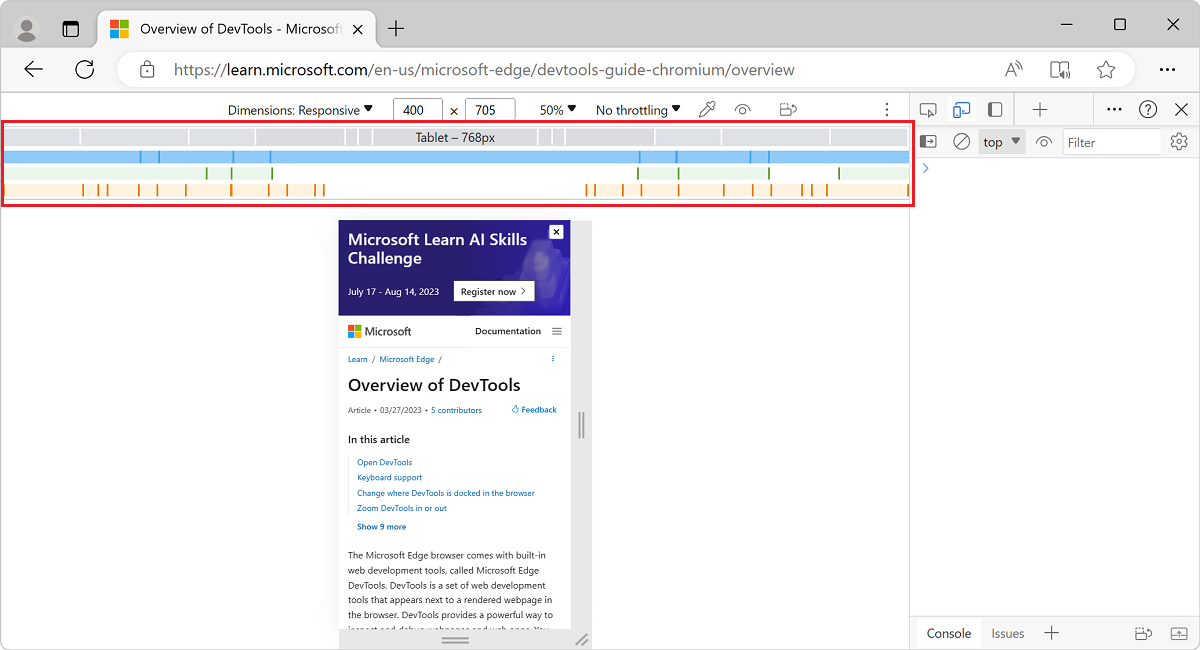
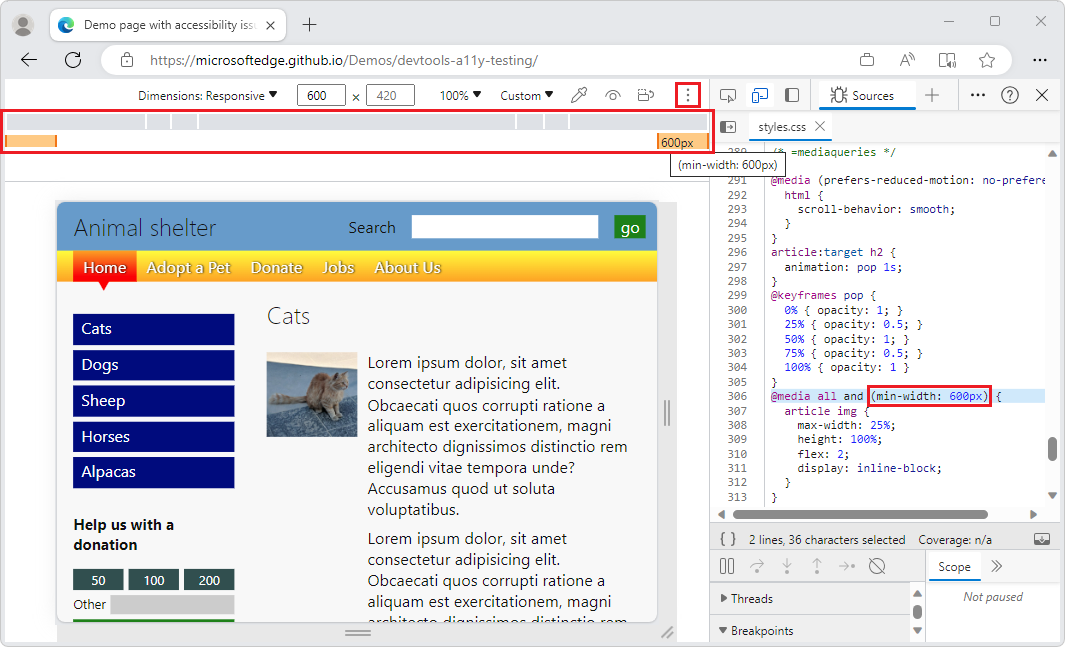
Viewport breakpoints

diff --git a/microsoft-edge/devtools-guide-chromium/device-mode/index.md b/microsoft-edge/devtools-guide-chromium/device-mode/index.md
@@ -52,9 +52,11 @@ Select **Toggle device emulation** (![Toggle Device Toolbar](./index-images/togg
 
 ![The Device Toolbar](./index-images/device-toolbar-highlighted.png)
 
-By default the Device Toolbar opens in Responsive Viewport Mode.
+By default, the Device Toolbar opens in Responsive Viewport Mode.
 
-### Responsive Viewport Mode
+
+<!-- ------------------------------ -->
+#### Responsive Viewport Mode
 
 To quickly test the look and feel of your page across multiple screen sizes, drag the handles to resize the viewport to your required dimensions.  You can enter any numeric values in the width and height boxes.  If you select a size larger than available in the browser window, the viewport will be automatically scaled to accommodate for the larger viewport.
 
@@ -64,17 +66,34 @@ In the following figure, the width is set to `400` and the height is set to `736
 
 If you need more space on your screen, you can always change the position of DevTools as explained in [Change DevTools placement (Undock, Dock to bottom, Dock to left)](/microsoft-edge/devtools-guide-chromium/customize/placement).
 
-#### Show media queries
 
-If you have defined media queries on your page, jump to the viewport dimensions where those media queries take effect by showing media query breakpoints above your viewport.  Select **More options** > **Show media queries**.
+<!-- ---------- -->
+###### Show media queries
 
-![Show media queries](./index-images/device-toolbar-more-options-show-media-queries.png)
+A _media query_ defines a breakpoint, which is a browser viewport width.  A webpage can define a responsive layout for each breakpoint (width) that it defines.
 
-Select a breakpoint to change the width of the viewport so that the media query gets triggered.
+To show media query breakpoints above the viewport:
 
-![Select a breakpoint to change the width of the viewport](./index-images/device-toolbar-click-breakpoint.png)
+1. Click the **More options** (![More Options icon](./index-images/more-options-icon.png)) button, and then select **Show media queries**:
 
-#### Set the device type
+   ![Show media queries](./index-images/device-toolbar-more-options-show-media-queries.png)
+   <!-- https://microsoftedge.github.io/Demos/devtools-a11y-testing/ -->
+
+   If `max-width` or `min-width` breakpoints are defined by the webpage, DevTools displays additional bars above the viewport:
+   * A blue bar with `max-width` breakpoints.
+   * An orange bar with `min-width` breakpoints:
+
+   ![Select a breakpoint to change the width of the viewport](./index-images/device-toolbar-click-breakpoint.png)
+
+1. To change the width of the viewport so that the media query for that breakpoint is used, click a breakpoint rectangle in the breakpoints bar.  The viewport's width changes so that the breakpoint gets triggered, and the webpage layout is updated.
+
+To find the corresponding `@media` declaration in the code for the webpage:
+
+* Right-click between breakpoint vertical bars, and then select **Reveal in source code**.  DevTools opens the **Sources** tool and displays the corresponding `@media` line in the **Editor**.
+
+
+<!-- ---------- -->
+###### Set the device type
 
 Use the **Device Type** list to simulate a mobile device or desktop device.
 
@@ -89,17 +108,19 @@ The following table describes the differences between the available device type 
 | Desktop | Desktop | Normal | `click` |
 | Desktop (touch) | Desktop | Circle | `touch` |
 
-> [!NOTE]
-> If the **Device Type** list isn't displayed, select **More options** > **Add device type**.
+If the **Device Type** list isn't displayed, select **More options** > **Add device type**.
 
-### Mobile Device Viewport Mode
+
+<!-- ------------------------------ -->
+#### Mobile Device Viewport Mode
 
 To simulate the dimensions of a specific mobile device, select the device from the **Device** list.
 
 ![The Device list](./index-images/device-toolbar-device-list.png)
 
 
-#### Rotate the viewport to landscape orientation
+<!-- ---------- -->
+###### Rotate the viewport to landscape orientation
 
 Test your webpage in landscape orientation.
 
@@ -112,7 +133,8 @@ Test your webpage in landscape orientation.
 See also [Set orientation](#set-orientation), below.
 
 
-#### Show device frame
+<!-- ---------- -->
+###### Show device frame
 
 To simulate the dimensions of a specific mobile device, open **More options** and then select **Show device frame** to show the physical device frame around the viewport.
 
@@ -124,7 +146,9 @@ The device frame for the iPhone 6/7/8:
 
 ![The device frame for the iPhone 6](./index-images/device-toolbar-options-device-frame-iphone-6.png)
 
-#### Add a custom mobile device
+
+<!-- ---------- -->
+###### Add a custom mobile device
 
 If the mobile device option that you need isn't included on the default list, you can add a custom device.  To add a custom device:
 
@@ -138,7 +162,9 @@ If the mobile device option that you need isn't included on the default list, yo
 
    ![Adding a custom device](./index-images/device-toolbar-settings-emulated-devices-add.png)
 
-### Show rulers
+
+<!-- ------------------------------ -->
+#### Show rulers
 
 If you need to measure screen dimensions, you can use rulers to measure the screen size in pixels.  Select **More options** > **Show rulers** to display rulers above and to the left of your viewport.
 
@@ -148,7 +174,9 @@ Rulers appear above and to the left of the viewport:
 
 ![Rulers above and to the left of the viewport](./index-images/device-toolbar-rulers.png)
 
-### Zoom the viewport
+
+<!-- ------------------------------ -->
+#### Zoom the viewport
 
 To test the look and feel of your page at multiple zoom levels, use the **Zoom** list to zoom in or out.
 
@@ -171,7 +199,8 @@ Mobile devices often have network and CPU constraints.  Test how quickly your pa
    If the **Throttle list** is hidden, your **Device Toolbar** is too narrow.
 
 
-### Throttle the CPU only
+<!-- ------------------------------ -->
+#### Throttle the CPU only
 
 To throttle the CPU only and not the network:
 
@@ -182,7 +211,8 @@ To throttle the CPU only and not the network:
    ![The CPU list in the Performance panel](./index-images/performance-cpu-throttle.png)
 
 
-### Throttle the network only
+<!-- ------------------------------ -->
+#### Throttle the network only
 
 To throttle the network only and not the CPU:
 
@@ -261,8 +291,7 @@ If your page depends on the user agent string from a mobile device to render pro
    ![Setting the user agent string to Microsoft Edge on macOS](./index-images/device-toolbar-network-conditions-macos.png)
 
 
-### See also
-
+See also:
 * [Override the user agent string](override-user-agent.md)
 
 

diff --git a/microsoft-edge/devtools-guide-chromium/customize/index.md b/microsoft-edge/devtools-guide-chromium/customize/index.md
@@ -58,9 +58,9 @@ You can move tools between the **Activity Bar** (at the top) and the **Quick Vie
 <!-- ====================================================================== -->
 ## Reorder tools
 
-Click and drag a tool to change the ordering.  Your custom tool order persists across DevTools sessions.
+To change the ordering of tabs on a toolbar, drag a tool's tab to the desired location.  Your custom tool order persists across DevTools sessions.
 
-By default, the **Network** tool is usually the fifth tab on the main toolbar.  In the following figure, the **Network** tool is being moved to become the first tab in the main toolbar.
+For example, by default, the **Network** tool is the fifth tab on the Activity Bar.  You can drag the **Network** tab to become the first tab:
 
 ![Custom order of DevTools in a toolbar](./index-images/network-first-position.png)
 
